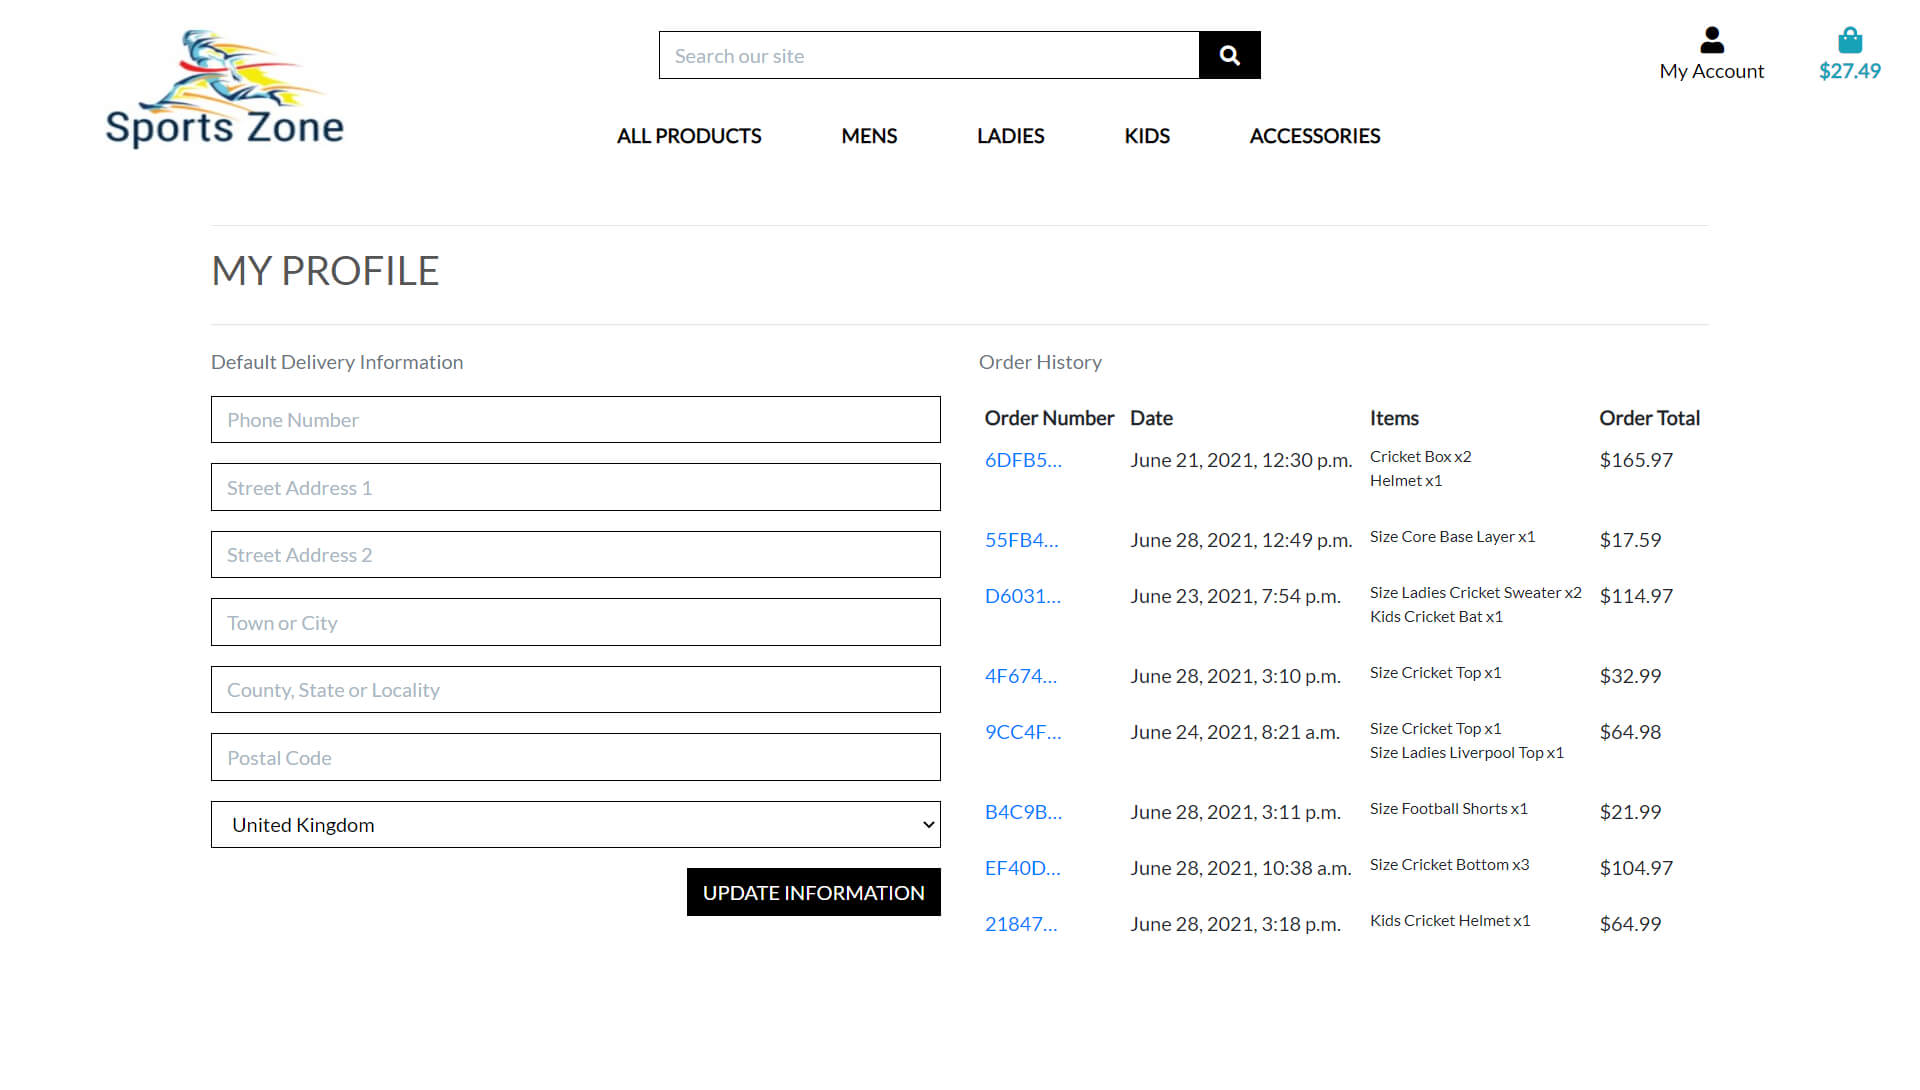
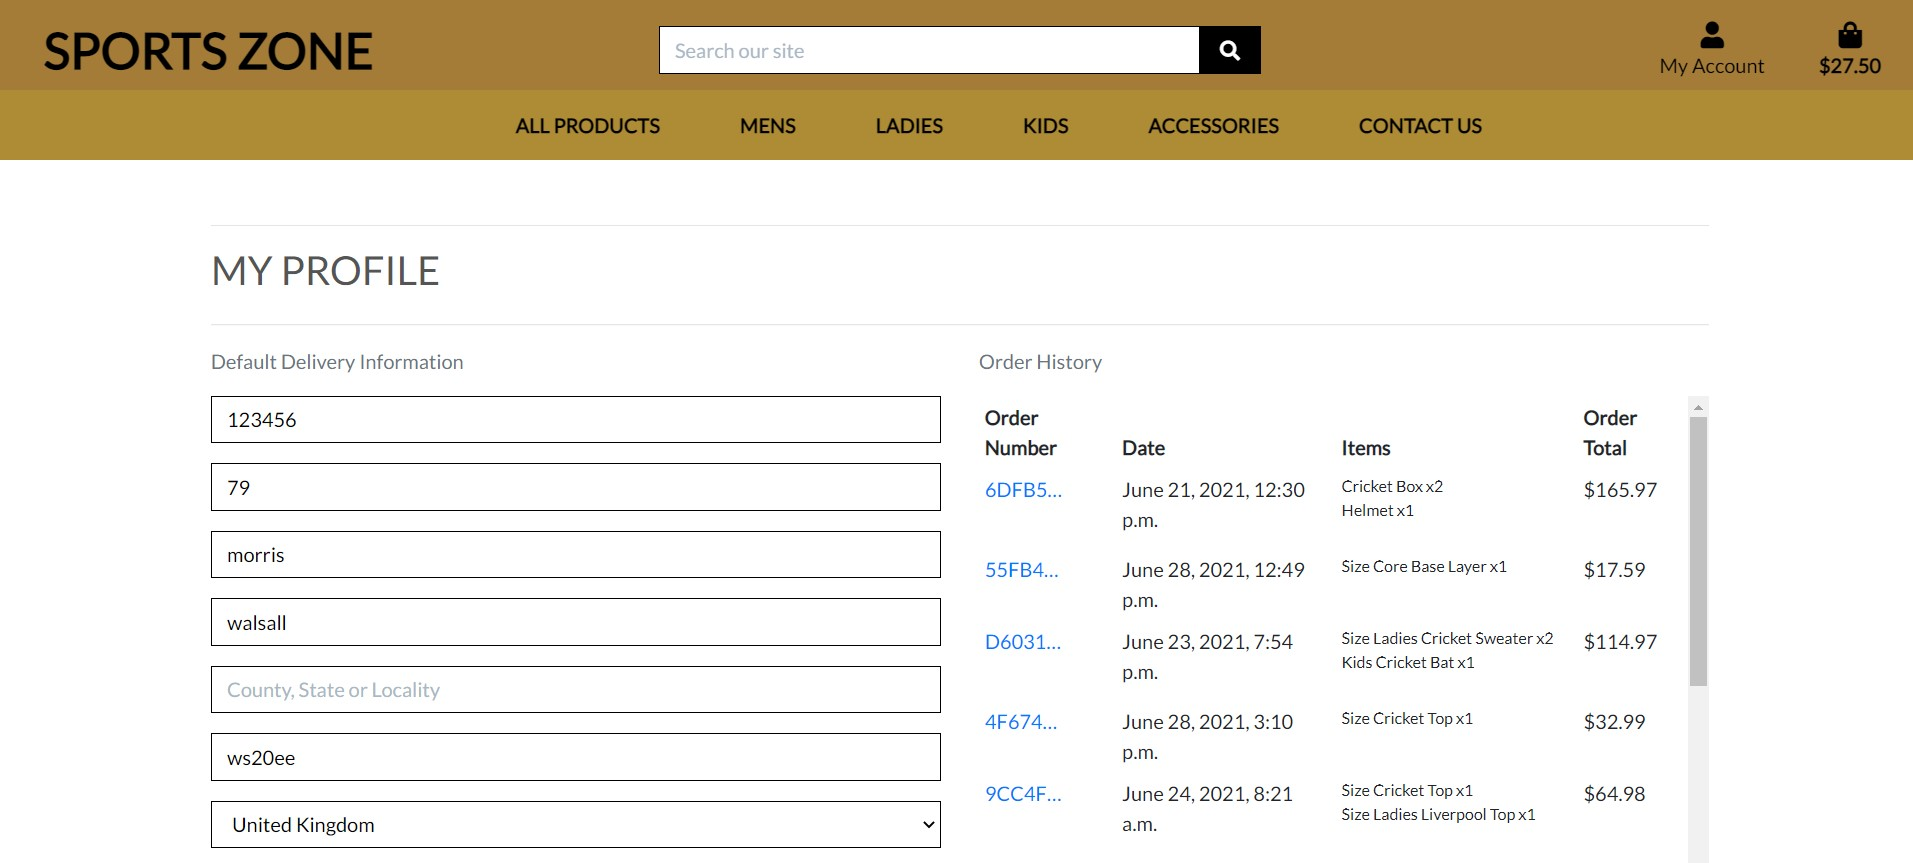
Updated read me images + Added resubmission content

diff --git a/README.md b/README.md
@@ -354,6 +354,12 @@ Bugs are a huge contribution towards learning, same in this profession every bug
 
 <div align="right"><p style="text-align: right"><a href="#top">Back to top</a></p></div>
 
+# Resubmission
+### Server Error fixed 
+### Added another model - Contact us 
+### HTML/CSS changes 
+### Images update 
+
 # Technologies and Tools Used
 - [HTML5](https://en.wikipedia.org/wiki/HTML5)
 - [CSS3](https://en.wikipedia.org/wiki/CSS)
